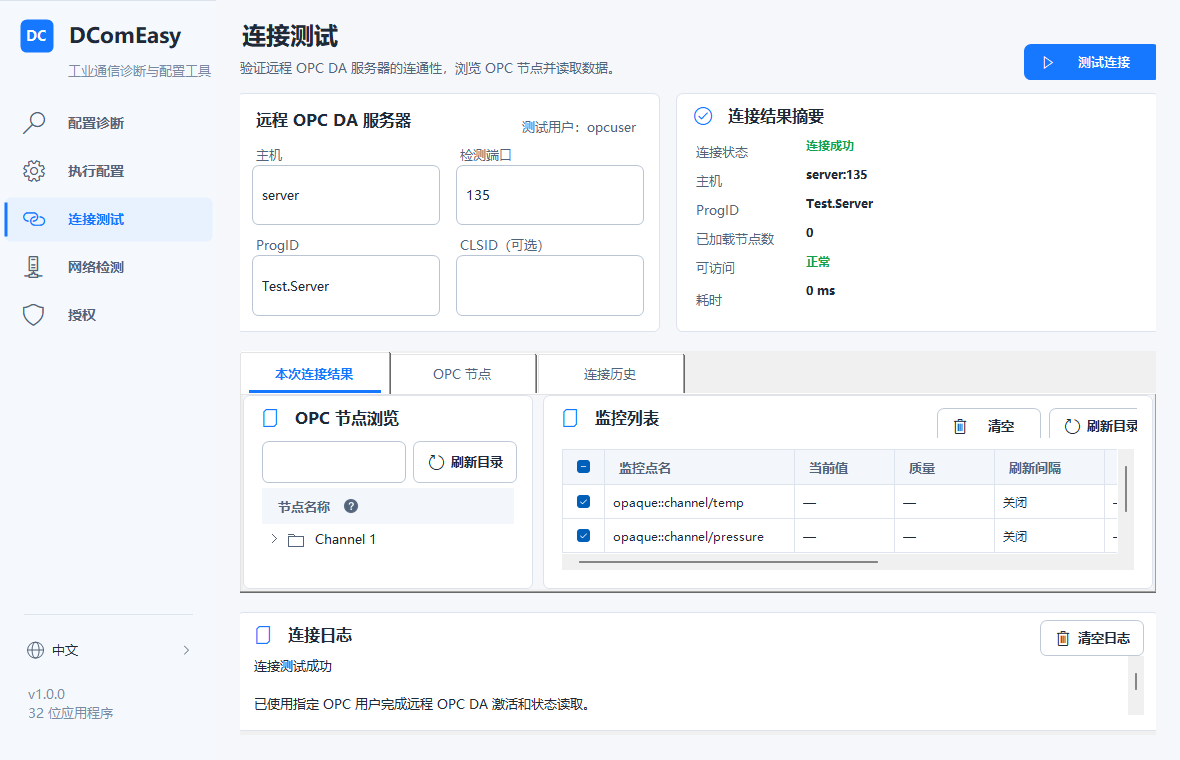
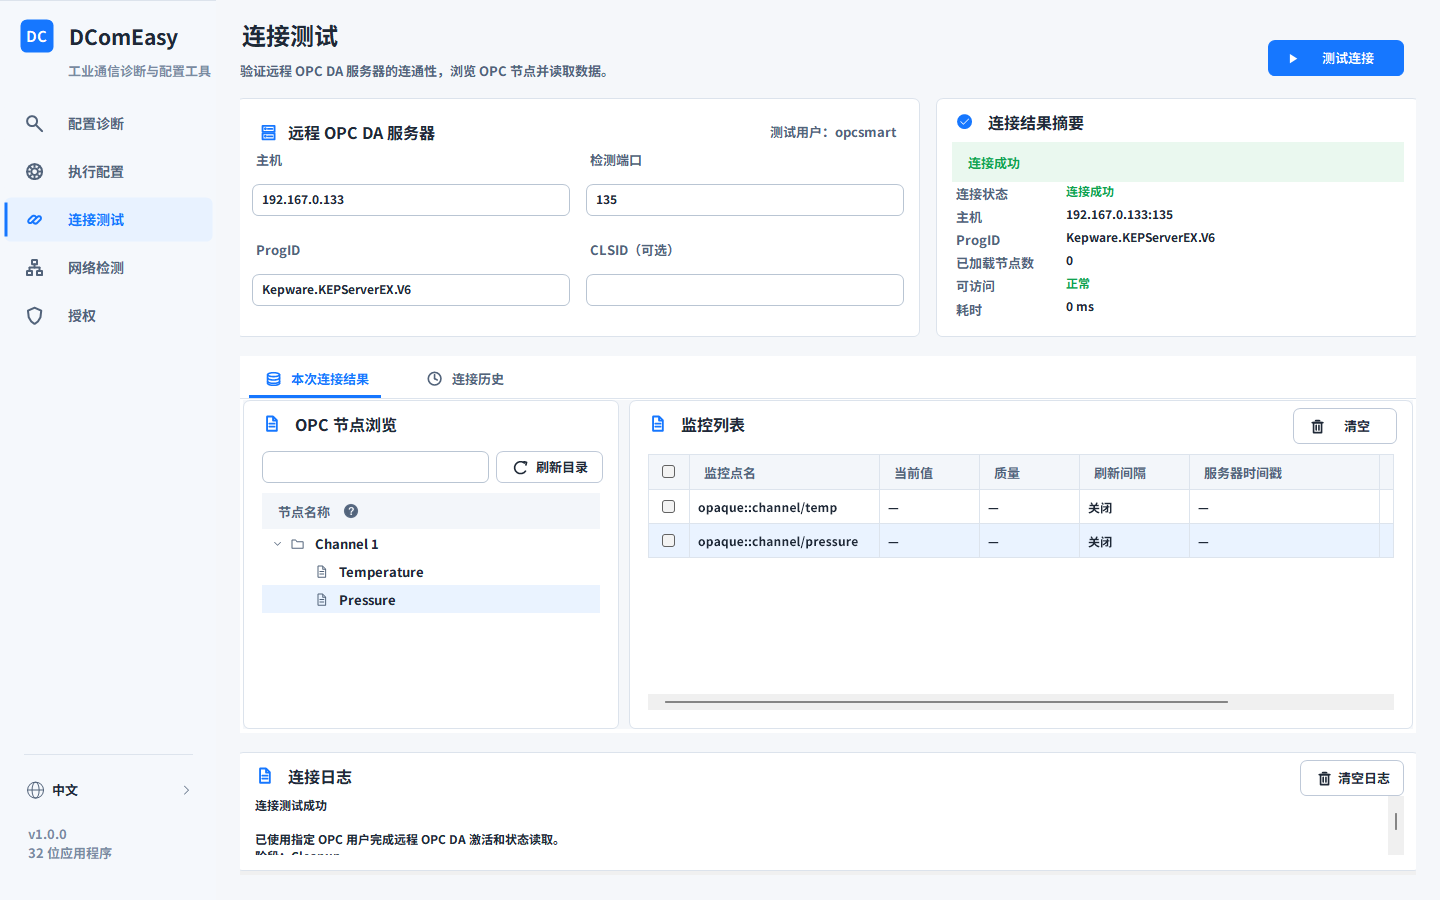
更新连接测试与点位监控截图

diff --git a/README.en.md b/README.en.md
@@ -29,17 +29,21 @@ DComEasy is a Windows OPC DA / DCOM configuration and diagnostic tool for indust
 
 ## Screenshots
 
-### Configuration diagnostics
+### Connected server and node browser
 
-![DComEasy configuration diagnostics](assets/screenshots/diagnosis-zh-CN.png)
+![DComEasy OPC DA connection and node browser](assets/screenshots/connection-zh-CN.png)
 
-### Configuration management
+### One-time read
 
-![DComEasy configuration management](assets/screenshots/configuration-zh-CN.png)
+Read a selected point once to display its current value, quality, and server timestamp without enabling scheduled polling.
 
-### OPC DA connection testing
+![DComEasy OPC DA one-time read](assets/screenshots/single-read-zh-CN.png)
 
-![DComEasy OPC DA connection testing](assets/screenshots/connection-zh-CN.png)
+### Batch scheduled polling
+
+Select multiple points and apply one polling interval to all of them. Both points below use a five-second interval.
+
+![DComEasy OPC DA batch scheduled polling](assets/screenshots/batch-refresh-5s-zh-CN.png)
 
 ## Editions
 
@@ -57,14 +61,14 @@ DComEasy is a Windows OPC DA / DCOM configuration and diagnostic tool for indust
 
 ## Requirements
 
-- A Windows desktop environment capable of running an x86 application.
+- Supports 64-bit Windows. DComEasy runs as a 32-bit process for compatibility with OPC DA and related COM components.
 - Administrator privileges to install and run DComEasy.
 - The complete offline installer, which includes the required .NET runtime.
 - A reachable OPC DA server and valid OPC user credentials for connection testing.
 
 ## Download and installation
 
-1. Download the latest `DComEasy-Setup-win-x86.exe` from [Releases](https://github.com/Todayos/DComEasy-Releases/releases).
+1. Download the latest `DComEasy-Setup-v1.0.0.exe` from [Releases](https://github.com/Todayos/DComEasy-Releases/releases).
 2. Run the installer as an administrator.
 3. Start DComEasy from the Start menu and run it with administrator privileges when prompted.
 

diff --git a/README.md b/README.md
@@ -29,17 +29,21 @@ DComEasy 是面向工业现场部署、调试和维护的 Windows OPC DA / DCOM 
 
 ## 界面预览
 
-### 配置诊断
+### 连接成功与节点浏览
 
-![DComEasy 配置诊断](assets/screenshots/diagnosis-zh-CN.png)
+![DComEasy OPC DA 连接成功与节点浏览](assets/screenshots/connection-zh-CN.png)
 
-### 执行配置
+### 单次读取
 
-![DComEasy 执行配置](assets/screenshots/configuration-zh-CN.png)
+选择一个点位执行“读取一次”，显示当前值、质量和服务器时间戳，不会自动开启定时刷新。
 
-### OPC DA 连接测试
+![DComEasy OPC DA 单次读取](assets/screenshots/single-read-zh-CN.png)
 
-![DComEasy OPC DA 连接测试](assets/screenshots/connection-zh-CN.png)
+### 批量定时刷新
+
+勾选多个点位后，可以统一设置刷新间隔。下图中两个点位均按 5 秒间隔刷新。
+
+![DComEasy OPC DA 批量定时刷新](assets/screenshots/batch-refresh-5s-zh-CN.png)
 
 ## 版本功能
 
@@ -57,14 +61,14 @@ DComEasy 是面向工业现场部署、调试和维护的 Windows OPC DA / DCOM 
 
 ## 系统要求
 
-- Windows 桌面环境，可运行 x86 应用。
+- 支持 64 位 Windows；DComEasy 以 32 位进程运行，以兼容 OPC DA 及相关 COM 组件。
 - 使用管理员权限安装和运行 DComEasy。
 - 使用完整的离线安装包；安装包已包含所需的 .NET 运行时。
 - 连接测试需要可访问的 OPC DA 服务器及该环境下有效的 OPC 用户信息。
 
 ## 下载与安装
 
-1. 前往 [Releases](https://github.com/Todayos/DComEasy-Releases/releases) 下载最新的 `DComEasy-Setup-win-x86.exe`。
+1. 前往 [Releases](https://github.com/Todayos/DComEasy-Releases/releases) 下载最新的 `DComEasy-Setup-v1.0.0.exe`。
 2. 以管理员身份运行安装程序。
 3. 从开始菜单启动 DComEasy，并按提示以管理员身份运行。
 
